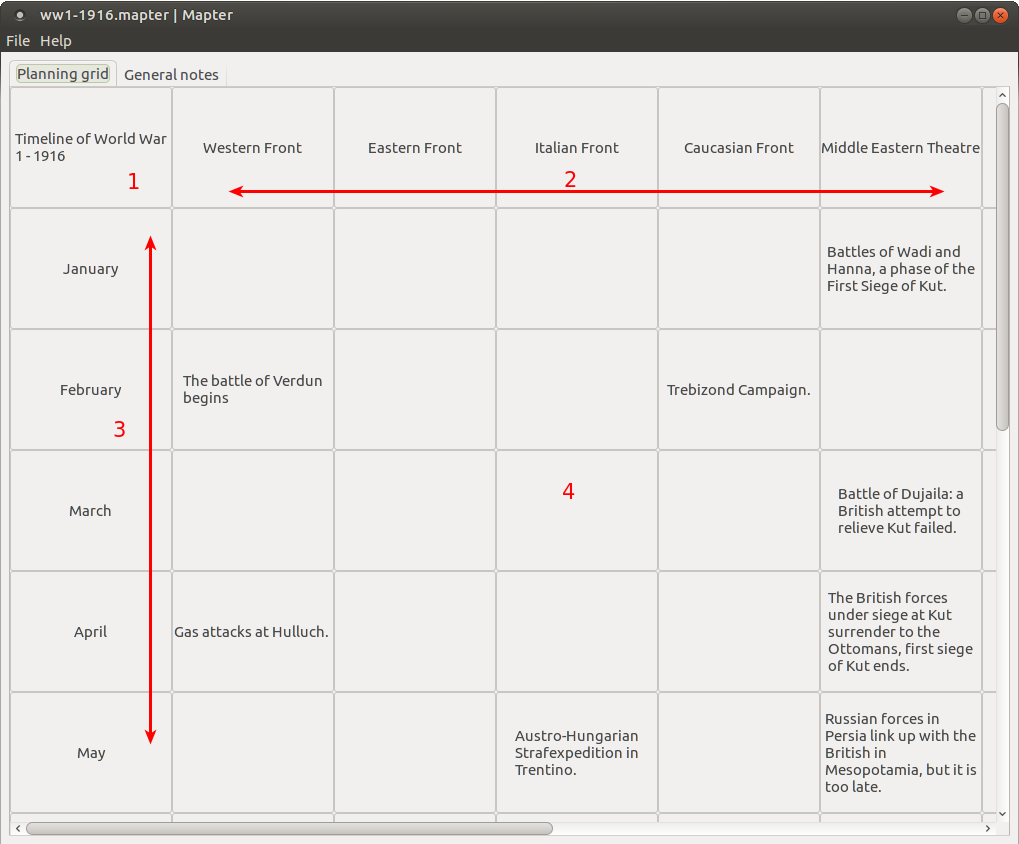
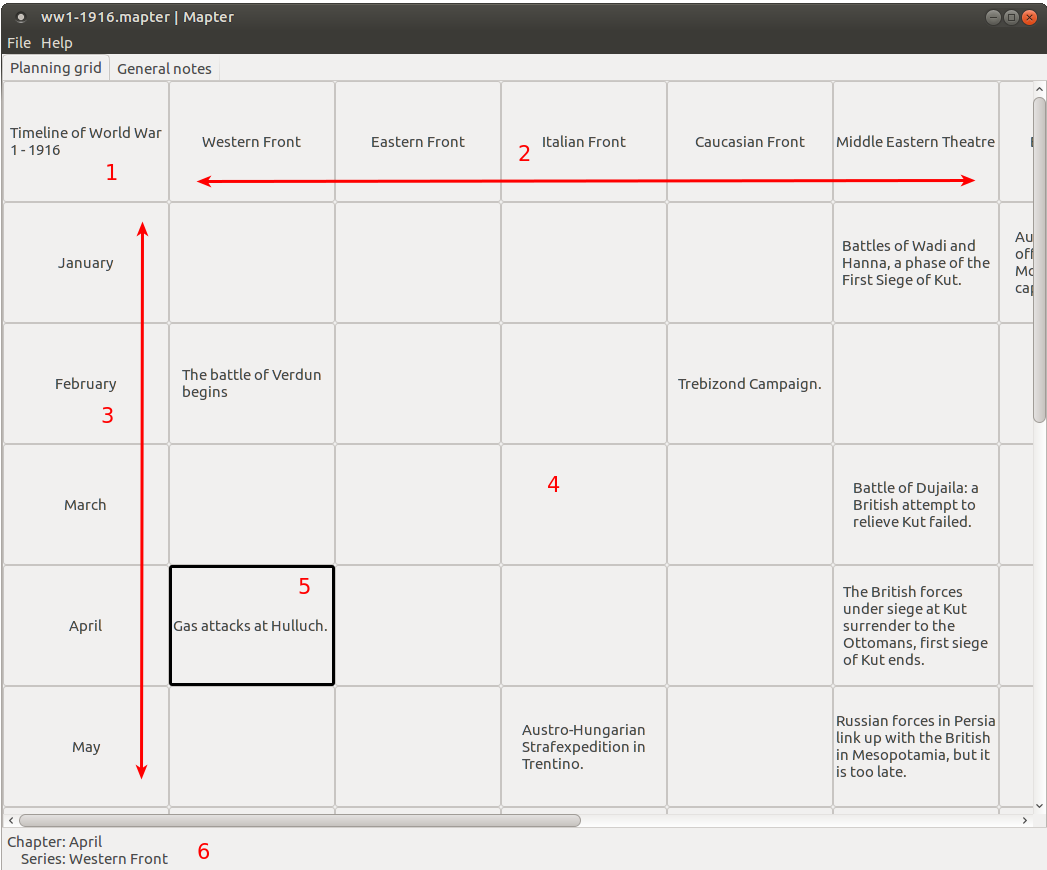
Merge "Navigation" branch and update documentation to match

diff --git a/README.md b/README.md
@@ -49,6 +49,8 @@ The grid tab has four main sections as described below. Double click on any of t
 1. The column headings are used to describe the series or themes that flow through the work.
 1. The row headings are used to define the chapter headings
 1. The rest of the grid is for each of the sections mapping the theme/series to the chapter.
+1. The currently selected cell is shown with a highlight. The selection can be moved with the arrow keys or by clicking with the mouse. ( "Home", "End", shift up-arrow and shift down-arrow also work ). Hitting Return will bring up the editor for the selected cell.
+1. The "Chapter" and "Series" of the selected cell are shown at the bottom. This makes navigation easier when the row and column headers are scrolled off the screen.
 
 _For the export it is possible to swap the order such that the column headings are the chapter titles etc. see below_
 
@@ -60,7 +62,7 @@ The notes tab is a simple free format text window.
 
 ### Edit Window
 
-Double clicking on any of the cells brings up the edit window:
+Double clicking on any of the cells or pressing Return on the highlighted cell brings up the edit window:
 
 ![Edit Window](/doc-images/edit.png)
 
